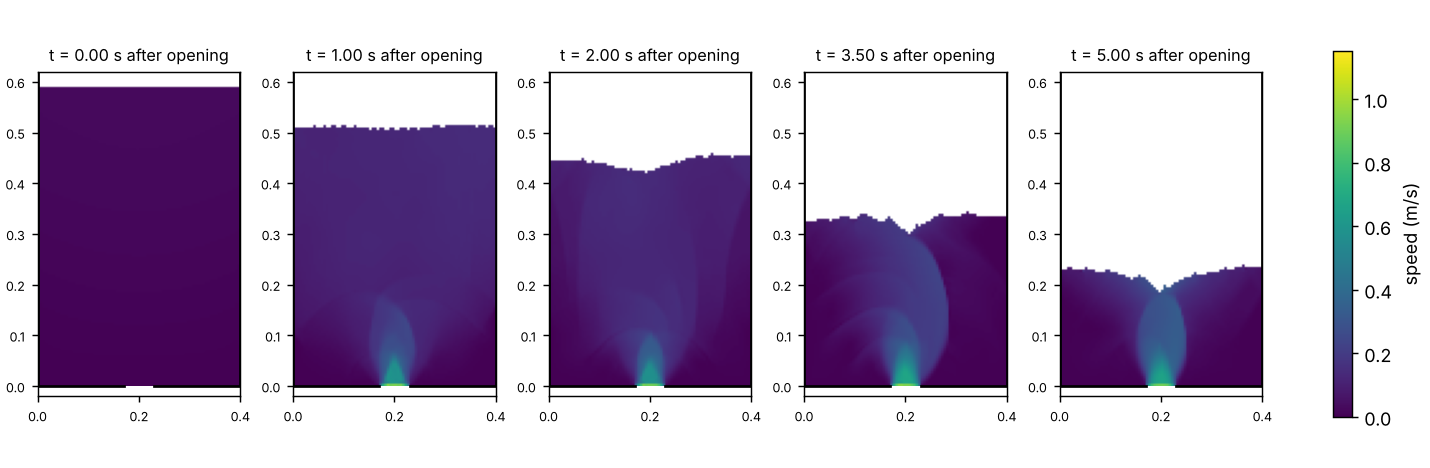
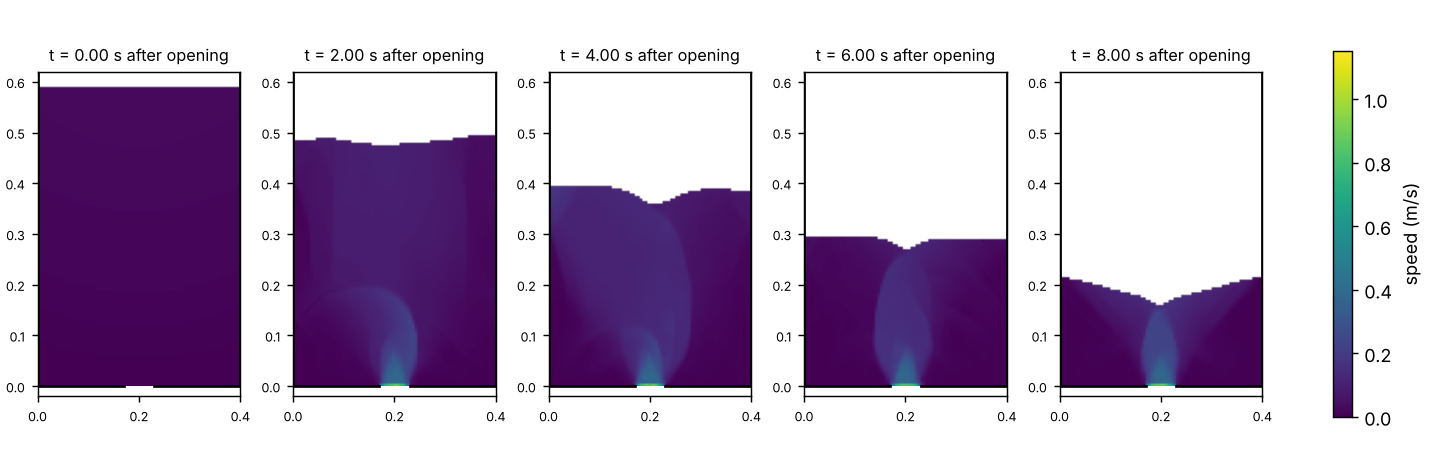
WP 3.3p: rerun 5 mm and 2.5 mm results on the merged code; refresh figures and numbers
Claude-Session: https://claude.ai/code/session_01KEGtGUNNLuFBnMWQeudEgd

diff --git a/tools/plot_discharge.py b/tools/plot_discharge.py
@@ -62,7 +62,7 @@ def frame_image(ax, r, k, kind):
     return im
 
 
-def fig_fields(r, out, times=(0.0, 1.0, 2.0, 3.5, 5.0)):
+def fig_fields(r, out, times=(0.0, 2.0, 4.0, 6.0, 8.0)):
     ft = r["f_t"]
     ks = [int(np.argmin(np.abs(ft - t))) for t in times if t <= ft[-1] + 1e-9]
     for kind, label, fname in (("speed", "speed (m/s)", "speed"),
@@ -78,7 +78,7 @@ def fig_fields(r, out, times=(0.0, 1.0, 2.0, 3.5, 5.0)):
         print("wrote", p)
 
 
-def fig_surface(r, out, times=(0.0, 1.0, 2.0, 3.0, 4.0, 5.0)):
+def fig_surface(r, out, times=(0.0, 1.0, 2.0, 4.0, 6.0, 8.0)):
     ft = r["f_t"]
     fig, ax = plt.subplots(figsize=(5, 3.5), constrained_layout=True)
     cmap = plt.get_cmap("viridis")

diff --git a/docs/results/silo-prototype.md b/docs/results/silo-prototype.md
@@ -12,7 +12,7 @@ phi 35 deg, psi 0, rho 1800 kg/m3, nu 0.3. Stage 1: gravity ramped over 0.1 s, d
 
 **Stiffness.** These runs use E = 0.1 MPa, not T0's 10 MPa: the rate depends on E
 (below), and E = 0.1 MPa is the stiffest value that gives steady flow at an affordable
-cost (1 h per run at 5 mm). This is a numerical limitation, not a material choice.
+cost (1 to 1.5 h per run at 5 mm). This is a numerical limitation, not a material choice.
 
 Reproduce (each writes an .npz for the plots):
 
@@ -24,7 +24,7 @@ Reproduce (each writes an .npz for the plots):
 
 ![Discharge, D = 60 mm, 5 mm cells](silo-prototype/discharge.gif)
 
-Left: speed; right: equivalent plastic strain (log scale). 5.5 s after opening, 70
+Left: speed; right: equivalent plastic strain (log scale). 8.3 s after opening, 70
 percent of the material has left.
 
 ## Flow pattern (D = 0.06 m, 5 mm cells)
@@ -35,9 +35,9 @@ percent of the material has left.
 
 ![Free surface](silo-prototype/free_surface.png)
 
-A fast channel forms above the outlet, the bottom corners stay at rest (corner speed 0.3
+A fast channel forms above the outlet, the bottom corners stay at rest (corner speed 0.4
 percent of the outlet speed at the end of the run) and a crater opens in the free
-surface once the flowing zone reaches it (about 2 s after opening). This is the pattern
+surface once the flowing zone reaches it (about 3 s after opening). This is the pattern
 the references describe (`docs/spec/silo-reference.md` section 3).
 
 ## Discharge rate
@@ -48,29 +48,33 @@ the references describe (`docs/spec/silo-reference.md` section 3).
 
 | D (m) | Rate, 5 mm (kg/s/m) | C (exponent 1.5) | Variation in 0.1 s windows | Beverloo, C = 1.45 (kg/s/m) |
 | --- | --- | --- | --- | --- |
-| 0.04 | 23.3 | 0.52 | 4.8 % | 65.4 |
-| 0.06 | 52.6 | 0.63 | 4.7 % | 120.1 |
-| 0.08 | 85.4 | 0.67 | 3.7 % | 185.0 |
+| 0.04 | 14.3 | 0.32 | 5.9 % | 65.4 |
+| 0.06 | 36.6 | 0.44 | 5.8 % | 120.1 |
+| 0.08 | 68.4 | 0.54 | 6.6 % | 185.0 |
 
 Rate measured as the slope of the tank mass from 95 to 70 percent of the mass at
-opening. Fitted exponent 1.87 (band 1.3 to 1.7); C 0.52 to 0.67 (band 1.0 to 1.9).
+opening. Fitted exponent 2.26 (band 1.3 to 1.7); C 0.32 to 0.54, 0.49 fitted (band 1.0
+to 1.9). Before WP 3.2r's rule 9 (top layers spread sideways, merged 2026-11-15) the
+same runs gave 23.3 / 52.6 / 85.4 kg/s/m, exponent 1.87: a change in the free-surface
+rule moved the rate by 20 to 40 percent, more evidence that the numerics set it.
 
 | Check (WP 3.3p brief) | Result | Band | Status |
 | --- | --- | --- | --- |
 | Nothing leaves before opening | 0 kg exactly | 0 | Pass |
 | Mass in tank + discharged | constant to 1e-13 | 1e-8 | Pass |
-| Steady rate while the bed is deeper than W | within 5 % (5 mm) | 10 % | Pass |
-| Head independence, H 0.9 against 0.6 m | 0.94 (10 mm) | within 10 % | Pass |
-| Stagnant corners | 0.3 % of the outlet speed (5 mm, D = 0.06 m) | below 1 % | Pass (10 mm: 1.7 to 2.9 %, fails) |
-| Crater | 66 mm deep at the end (D = 0.06 m) | present | Pass |
-| Exponent | 1.87 (5 mm), 2.17 (10 mm) | 1.3 to 1.7 | **Fail** |
-| C | 0.52 to 0.67 (5 mm) | 1.0 to 1.9 | **Fail** |
-| Mesh, 5 against 2.5 mm (D = 0.06 m, 0.2 to 0.5 s) | 51.1 against 57.7 kg/s/m, 13 % | 10 % | **Fail** |
+| Steady rate while the bed is deeper than W | within 6.6 % (5 mm) | 10 % | Pass |
+| Head independence, H 0.9 against 0.6 m | 0.975 (10 mm) | within 10 % | Pass |
+| Stagnant corners | 0.4 % of the outlet speed (5 mm, D = 0.06 m); 1.1 and 1.4 % for D = 0.08 and 0.04 m | below 1 % | Pass for D = 0.06 m only |
+| Crater | 59 mm deep at the end (D = 0.06 m) | present | Pass |
+| Exponent | 2.26 (5 mm) | 1.3 to 1.7 | **Fail** |
+| C | 0.32 to 0.54 (5 mm) | 1.0 to 1.9 | **Fail** |
+| Mesh, 5 against 2.5 mm (D = 0.06 m, 0.2 to 0.5 s) | 36.8 against 45.2 kg/s/m, 23 % | 10 % | **Fail** |
 
 ## Why the rate is low: numerical dissipation
 
 The rate depends on E and on the mesh, which a rate-independent material should not do.
-D = 0.06 m, 10 mm cells, rate 0.05 to 0.4 s after opening:
+D = 0.06 m, 10 mm cells, rate 0.05 to 0.4 s after opening (measured before the WP 3.2r
+merge, which lowers the 10 mm rate at 0.1 MPa from 42 to 28 kg/s/m):
 
 | E (MPa) | 0.01 | 0.1 | 1 | 10 (T0) |
 | --- | --- | --- | --- | --- |
@@ -86,6 +90,7 @@ does not resist plastic flow, mu(I) friction, or both.
 
 ## Cost
 
-Python prototype, one core: 5 mm cells and E = 0.1 MPa run about 230 s of wall time per
-second of discharge (80 x 124 cells); 2.5 mm about 8 times that. At T0's E = 10 MPa the
+Python prototype, one core (four runs sharing four cores): 5 mm cells and E = 0.1 MPa
+run about 470 s of wall time per second of discharge (80 x 124 cells); 2.5 mm about 7
+times that. At T0's E = 10 MPa the
 time step is 10 times smaller.

diff --git a/docs/STATUS.md b/docs/STATUS.md
@@ -35,7 +35,7 @@ Phase 2 (the C++ Eulerian solver: 2.1 to 2.5c and 2.4b done; 2.6 waits for Phase
 | 3.2q | Prototype column collapse (split from 3.2p) | Done (run-out); slope split to 3.2r | Cause of the short run-out: the Riemann solver's shear jump term acts as a mesh-independent viscosity in one-cell shear bands (grows with sqrt(E)). Fix: face shear capped at yield, capped faces slip (`shear_cap`, decision 0023). a = 0.5 run-out 0.25 -> 0.40 (10 and 20 cells; band 0.30 to 0.90), top kept; a = 2 1.2 -> 1.6 (band 1.2 to 3.6). `tests/test_proto_void.sh` unchanged and passing |
 | 3.2r | Prototype column collapse deposit slope | Done (staircase); toe split to 3.2s | Rule 9 (decision 0024): top layers (al >= 0.1) spread sideways in the x sweep. Deposit body smooth: steepest slope without the toe 27.9 deg (a = 0.5) and 33.9 (a = 2), was 45 and 59; run-outs 0.40 and 1.8 (20 cells 0.45 and 2.45), top kept. The 3.2q blow-up came from spreading in the y sweep, not the cap. Toe still 62.3 / 48.0 deg per cell (10 cells), 46.6 / 39.8 (20 cells); test stays in `tests/manual/` |
 | 3.2s | Prototype collapse toe: stress in partly filled cells | Next | Brief: `docs/wp/WP-3.2s.md`. Rule 4 (void first) leaves partly filled cells stress-free, so surface layers have no friction, creep and pile up at the front. Two closures tried in 3.2r failed (0024) |
-| 3.3p | Prototype silo discharge (target T0) | Done (outlet, end-to-end run); rate law split to 3.3q | `prototype/discharge2d.py`, outlet = rule 10 of `void2d.py` (decision 0026). `tests/test_proto_silo_discharge.sh` passes (about 3 to 5 min): nothing leaks, mass 1e-14, head independence 0.94. Results, figures and animation: `docs/results/silo-prototype.md`. Steady rate, stagnant corners and crater are right, but the rate is about half of Beverloo (5 mm, E = 0.1 MPa: C 0.52 to 0.67, exponent 1.87) and depends on E (6 / 17 / 38 kg/s/m at 10 / 1 / 0.1 MPa): Riemann dissipation |
+| 3.3p | Prototype silo discharge (target T0) | Done (outlet, end-to-end run); rate law split to 3.3q | `prototype/discharge2d.py`, outlet = rule 10 of `void2d.py` (decision 0026). `tests/test_proto_silo_discharge.sh` passes (about 3 to 5 min): nothing leaks, mass 1e-14, head independence 0.975. Results, figures and animation: `docs/results/silo-prototype.md`. Steady rate, stagnant corners and crater are right, but the rate is a third to a half of Beverloo (5 mm, E = 0.1 MPa: C 0.32 to 0.54, exponent 2.26; 5 against 2.5 mm 23 percent apart) and depends on E (6 / 17 / 38 kg/s/m at 10 / 1 / 0.1 MPa): Riemann dissipation |
 | 3.3q | Prototype silo discharge rate (split from 3.3p) | Next | Brief: `docs/wp/WP-3.3q.md`. Damping that does not resist plastic flow, and/or mu(I) friction. Test `tests/manual/test_proto_silo_rate.sh` (fails now) |
 
 ## Standing instruction from Sia (2026-11-14)
@@ -90,8 +90,8 @@ Then the C++ counterparts 3.1 to 3.4 (2.4b is done; briefs not written yet) and 
   solver is not capped (capping it was unstable), so run-out still falls with E: 0.45,
   0.40, 0.25 at 0.1, 1, 10 MPa (a = 0.5). Stiff material under-predicts flow. The silo
   discharge rate shows it strongly (WP 3.3p, decision 0026): 6 / 17 / 38 kg/s/m at
-  E = 10 / 1 / 0.1 MPa against Beverloo's 120, and 13 percent mesh dependence (5 against
-  2.5 mm). Reducing the jump terms makes the flow noisy; WP 3.3q. Surfaces were staircases of whole cells (fixed in
+  E = 10 / 1 / 0.1 MPa against Beverloo's 120, 23 percent mesh dependence (5 against
+  2.5 mm), and a 20 to 40 percent drop from WP 3.2r's free-surface rule. Reducing the jump terms makes the flow noisy; WP 3.3q. Surfaces were staircases of whole cells (fixed in
   WP 3.2r); fronts are still blunt (WP 3.2s). The C++ Lagrange step has the same face solver and
   needs the shear cap before the silo runs in celFoam.
 - Void prototype (decision 0024): partly filled cells carry no stress (void-first

diff --git a/docs/decisions/0026-silo-outlet-and-discharge-rate.md b/docs/decisions/0026-silo-outlet-and-discharge-rate.md
@@ -41,8 +41,10 @@ opening (Beverloo with C = 1.45 gives 120 kg/s/m):
 The jump terms z (vR - vL) / 2 act as a viscosity of order rho c h |grad v| in the
 converging flow above the outlet; it grows with sqrt(E) and, unlike the one-cell shear
 bands of decision 0023, it does fall with the cell size (E = 0.1 MPa, rate over 0.2 to
-0.5 s: 51 kg/s/m at 5 mm and 58 at 2.5 mm, 13 percent apart; 10 mm gave 42 over a later
-window; see `docs/results/silo-prototype.md`).
+0.5 s: 36.8 kg/s/m at 5 mm and 45.2 at 2.5 mm, 23 percent apart; see
+`docs/results/silo-prototype.md`). The free-surface rule matters too: WP 3.2r's rule 9
+(merged during this package) lowered every rate by 20 to 40 percent. The E table above
+was measured before that merge.
 
 Tried and rejected (E = 1 MPa, 10 mm, unless stated):
 
@@ -73,13 +75,14 @@ it). So even a dissipation-free scheme may leave the rate set by the numerics.
 ## Consequences
 
 - `tests/test_proto_silo_discharge.sh` (CI) checks what is done: the outlet mechanics
-  (no leak, mass balance 1e-8, outflow, head independence within 10 percent: 0.94).
+  (no leak, mass balance 1e-8, outflow, head independence within 10 percent: 0.975).
 - The WP 3.3p rate checks (steady rate, exponent, C, corners, crater) are in
   `tests/manual/test_proto_silo_rate.sh` and fail: at E = 0.1 MPa, 10 mm, exponent 2.2
-  (band 1.3 to 1.7), C 0.38 / 0.51 / 0.61 for D = 0.04 / 0.06 / 0.08 m (band 1.0 to 1.9);
-  at 5 mm, exponent 1.87 and C 0.52 / 0.63 / 0.67. The rate is steady (within 5 percent
-  at 5 mm), the corners are stagnant and a crater forms: the flow pattern is right, the
-  magnitude is about half of Beverloo's.
+  (band 1.3 to 1.7), C 0.38 / 0.51 / 0.61 for D = 0.04 / 0.06 / 0.08 m (band 1.0 to 1.9;
+  before the WP 3.2r merge); at 5 mm with rule 9, exponent 2.26 and C 0.32 / 0.44 /
+  0.54. The rate is steady (within 7 percent at 5 mm), the corners are stagnant and a
+  crater forms: the flow pattern is right, the magnitude is a third to a half of
+  Beverloo's.
   They are the done-when of WP 3.3q (`docs/wp/WP-3.3q.md`).
 - WP 3.3q options, in order: (1) a damping that acts on elastic and odd-even modes but
   not on the plastic flow (for example jump terms scaled only where both cells are at

diff --git a/docs/wp/WP-3.3p.md b/docs/wp/WP-3.3p.md
@@ -66,15 +66,16 @@ the source, and what constitutive change would address it.
 - 2026-11-15: Outlet built (rule 10 in `void2d.py`, `prototype/discharge2d.py`); settle
   0.3 s with the outlet closed, open instantly, damping off. CI test
   `tests/test_proto_silo_discharge.sh` passes (10 mm, E = 0.1 MPa, about 3 to 5 min):
-  nothing leaks, mass balance 1e-14, head independence 0.94. Rate against E first, as
+  nothing leaks, mass balance 1e-14, head independence 0.975. Rate against E first, as
   asked: 6 / 17 / 38 kg/s/m at E = 10 / 1 / 0.1 MPa (D = 0.06 m, 10 mm); E = 0.01 MPa
   never steadies. Cause: the Riemann jump terms act as a viscosity of order rho c h
   grad v. Reducing them (scaled, Mach-scaled, with floors) raises the rate but makes the
   flow noisy (speeds 4 to 10 m/s, kinetic above strain energy), so nothing was adopted;
   `low_mach` (rule 11) stays as an off-by-default study option. Full runs at 5 mm, E = 0.1
-  MPa: rates 23.3 / 52.6 / 85.4 kg/s/m for D = 0.04 / 0.06 / 0.08 m (C 0.52 / 0.63 /
-  0.67, exponent 1.87), steady within 5 percent, stagnant corners (0.3 percent of the
-  outlet speed at D = 0.06 m), crater. Mesh: 51 (5 mm) against 58 (2.5 mm) kg/s/m over
-  0.2 to 0.5 s. Figures and animation in `docs/results/silo-prototype.md`. The rate law
+  MPa, after merging WP 3.2r (rule 9): rates 14.3 / 36.6 / 68.4 kg/s/m for D = 0.04 /
+  0.06 / 0.08 m (C 0.32 / 0.44 / 0.54, exponent 2.26; before the merge 23.3 / 52.6 /
+  85.4, exponent 1.87), steady within 7 percent, stagnant corners (0.4 percent of the
+  outlet speed at D = 0.06 m), crater. Mesh: 36.8 (5 mm) against 45.2 (2.5 mm) kg/s/m
+  over 0.2 to 0.5 s. Figures and animation in `docs/results/silo-prototype.md`. The rate law
   checks are in `tests/manual/test_proto_silo_rate.sh` (fail) and are the done-when of
   WP 3.3q. Next: WP 3.3q (`docs/wp/WP-3.3q.md`).
